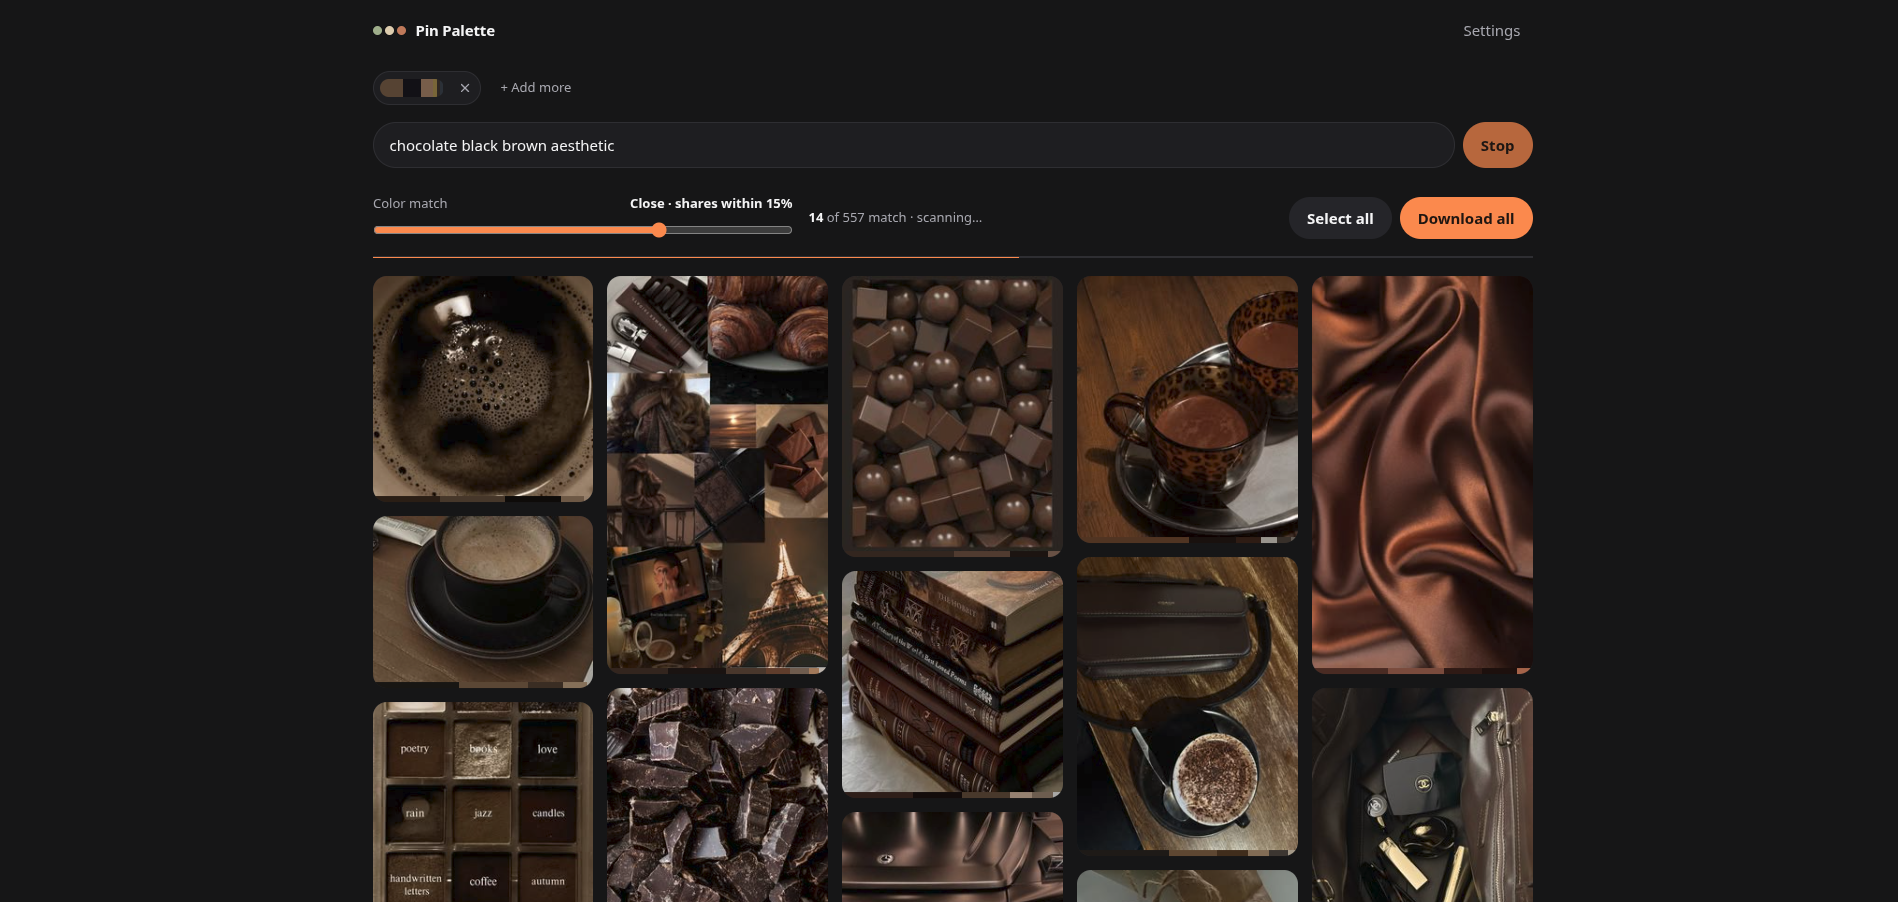
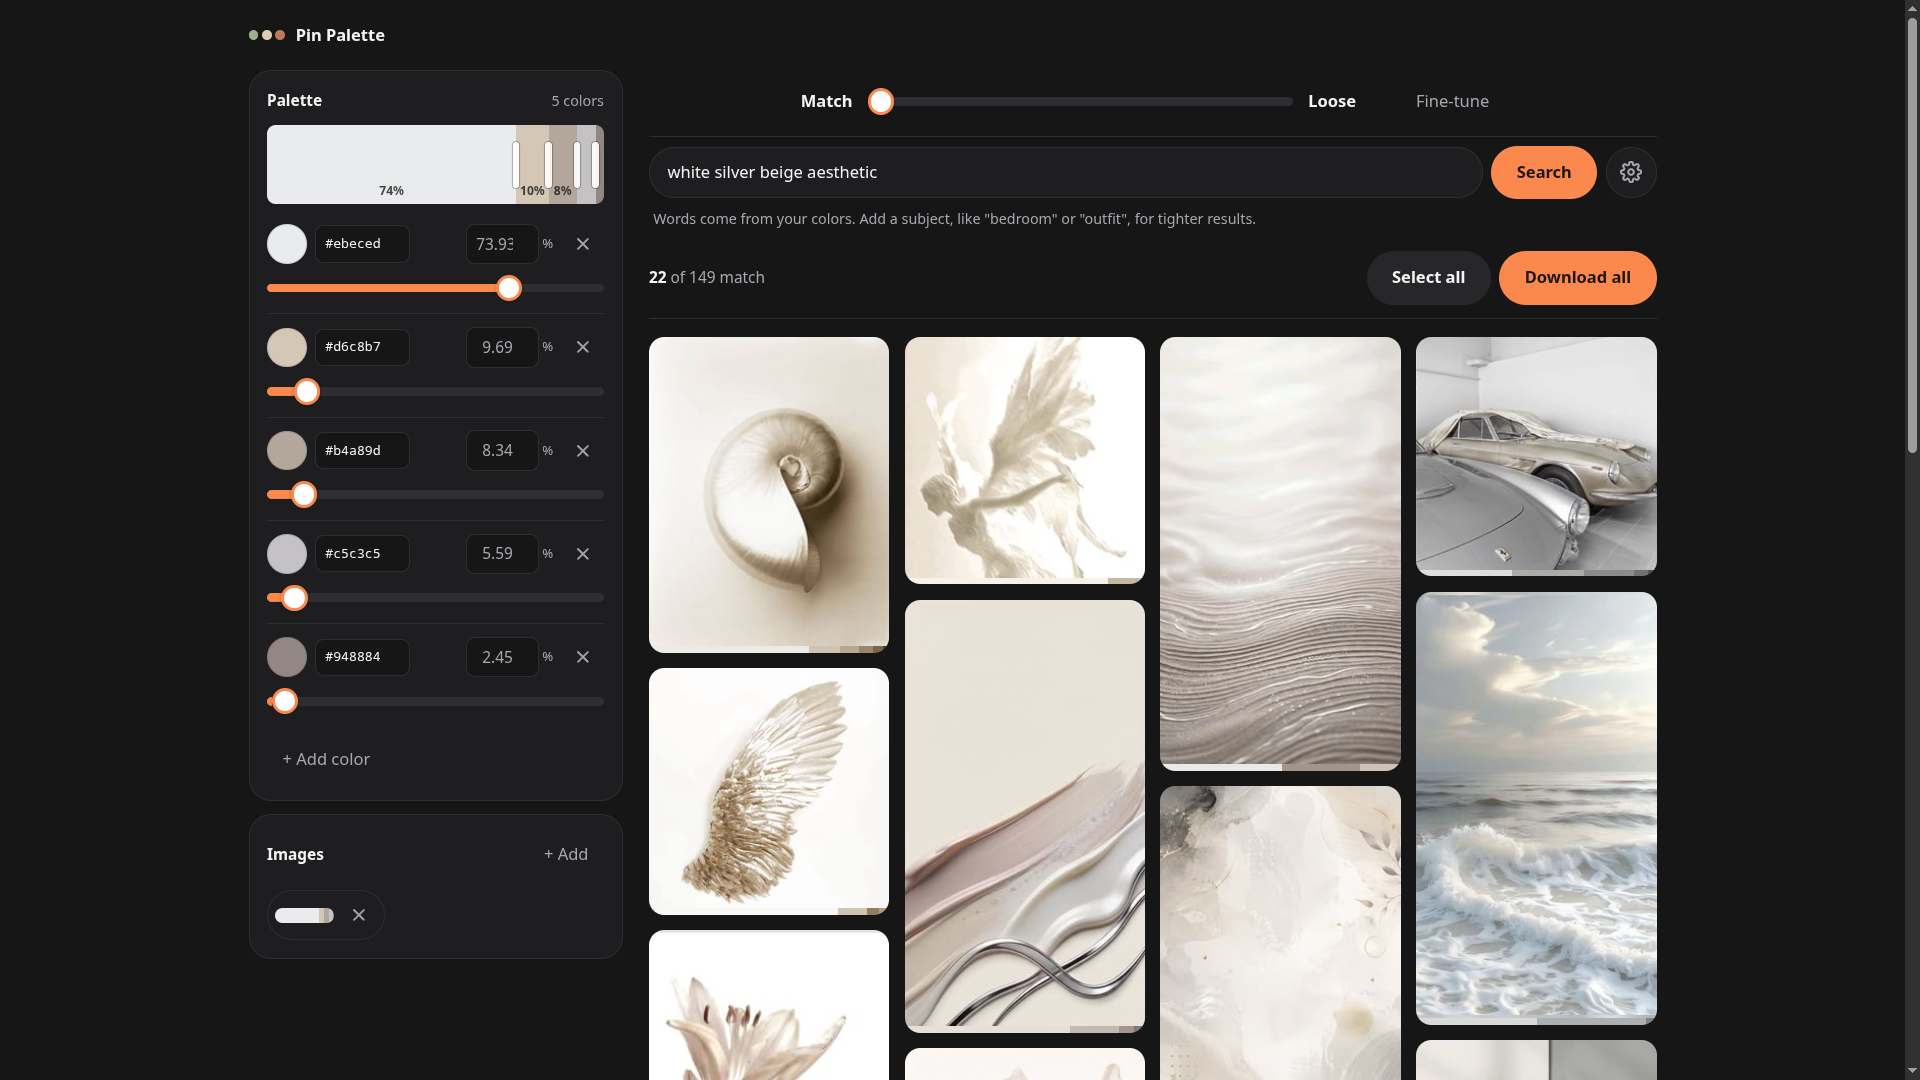
New screenshot, shorter intro, one-decimal percentages

diff --git a/index.html b/index.html
@@ -164,7 +164,7 @@ aside::-webkit-scrollbar{width:6px}aside::-webkit-scrollbar-thumb{background:var
   <section id="hero">
     <div class="hero-in">
       <h1>Find Pinterest images with your exact color palette</h1>
-      <p class="lead">Add one image or a folder. Pin Palette reads which colors it uses and how much of each, then finds pins that match. You can edit the palette before searching.</p>
+      <p class="lead">Drop images, get matching pins.</p>
       <div class="drop" id="drop">
         <div class="big">Drop images or a folder here</div>
         <div class="row">
@@ -348,7 +348,7 @@ function drawRows() {
     <div class="crow" data-i="${i}">
       <label class="sw" style="background:${c.hex}" title="Change color"><input type="color" value="${c.hex}" data-k="color" aria-label="Color ${i + 1}"></label>
       <input class="mini hex" value="${c.hex}" data-k="hex" spellcheck="false" aria-label="Hex code">
-      <span class="pctwrap"><input class="mini pctn" type="number" min="1" max="100" step="0.5" value="${c.pct}" data-k="pct" aria-label="Percent">%</span>
+      <span class="pctwrap"><input class="mini pctn" type="number" min="1" max="100" step="0.5" value="${round1(c.pct)}" data-k="pct" aria-label="Percent">%</span>
       <button class="iconbtn" data-k="del" aria-label="Remove color" title="Remove color">${ICON.x}</button>
       <input class="amt" type="range" min="1" max="100" step="0.5" value="${c.pct}" data-k="range" aria-label="Amount of this color">
     </div>`).join("");
@@ -361,7 +361,7 @@ function syncRows() {
     row.querySelector(".sw").style.background = c.hex;
     for (const el of row.querySelectorAll("input")) {
       if (el === document.activeElement) continue;
-      if (el.dataset.k === "range" || el.dataset.k === "pct") { el.value = c.pct; if (el.type === "range") fill(el); }
+      if (el.dataset.k === "range" || el.dataset.k === "pct") { el.value = el.type === "range" ? c.pct : round1(c.pct); if (el.type === "range") fill(el); }
       if (el.dataset.k === "hex" || el.dataset.k === "color") el.value = c.hex;
     }
   });
